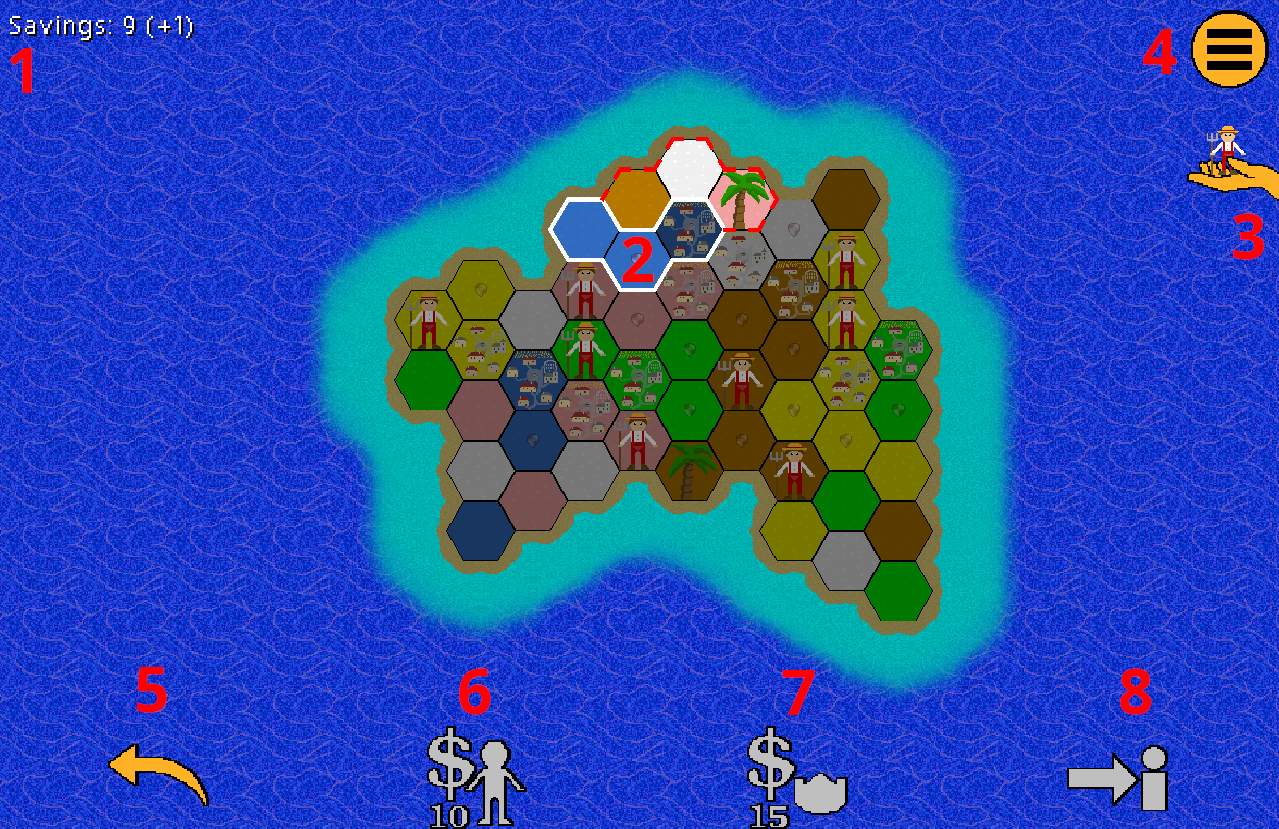
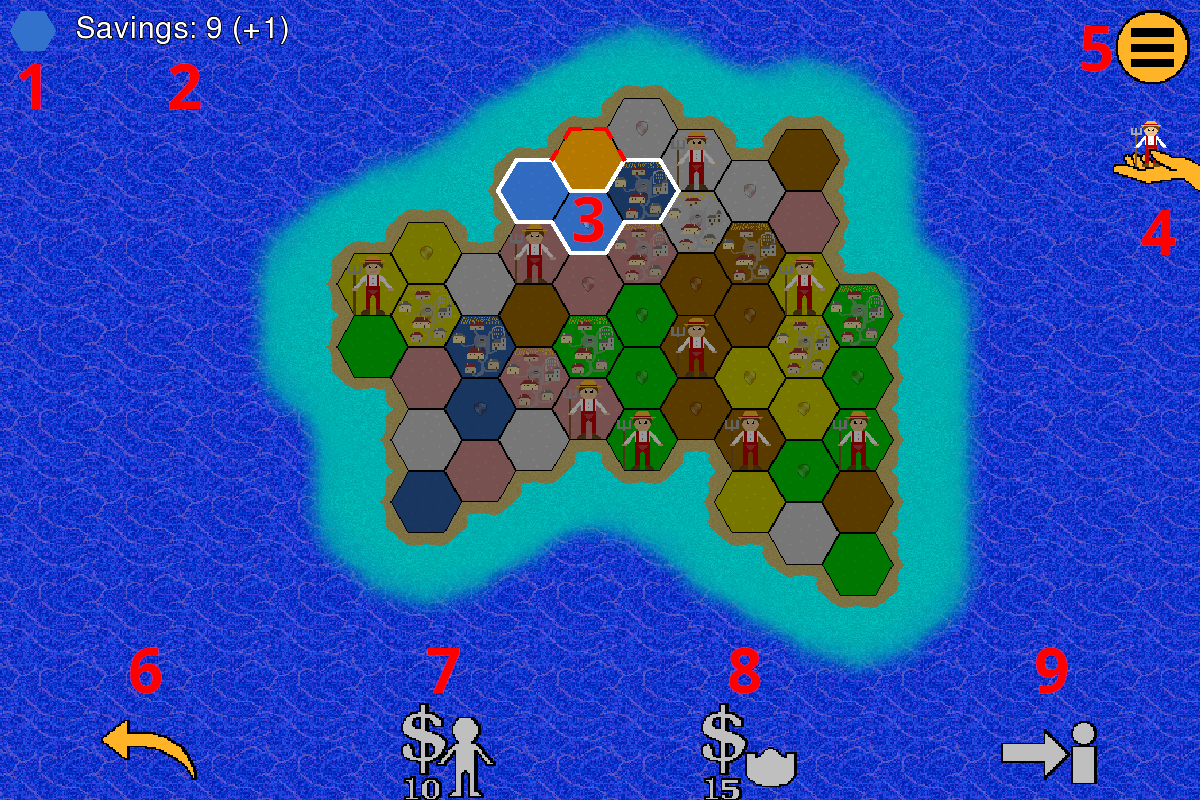
update tutorial

diff --git a/core/src/main/java/de/sesu8642/feudaltactics/menu/tutorial/ui/TutorialSlideFactory.java b/core/src/main/java/de/sesu8642/feudaltactics/menu/tutorial/ui/TutorialSlideFactory.java
@@ -92,7 +92,7 @@ public class TutorialSlideFactory {
 	}
 
 	private Slide createTutorialSlide7() {
-		String text = "The user interface contains the following elements:\n1. Finaces of the selected kingdom. (income in brackets)\n2. Selected kingdom: outlined in white; tiles that can be conquered outlined in red\n3. Picked up object\n4. Pause\n5. Undo action\n6. Buy Peasant for 10 coins\n7. Buy castle for 15 coins\n8. End turn";
+		String text = "The user interface contains the following elements:\n1. Turn indicator: displays the color of the player whose turn it currently is. \n2. Finaces of the selected kingdom. (income in brackets)\n3. Selected kingdom: outlined in white; tiles that can be conquered outlined in red\n4. Picked up object\n5. Pause\n6. Undo action\n7. Buy Peasant for 10 coins\n8. Buy castle for 15 coins\n9. End turn";
 		String imagePath = "tutorial_ui.png";
 		String text2 = "There are several shortcuts available:\n- undo move: Android or mouse back button\n- buy peasant: right mouse button click\n- buy and place peasant in own kingdom: double tap/click\n- buy castle: middle mouse button click\n- buy and place castle: long press/click";
 		return new Slide(skin, HEADLINE).addLabel(text).addImage(imagePath).addLabel(text2);
